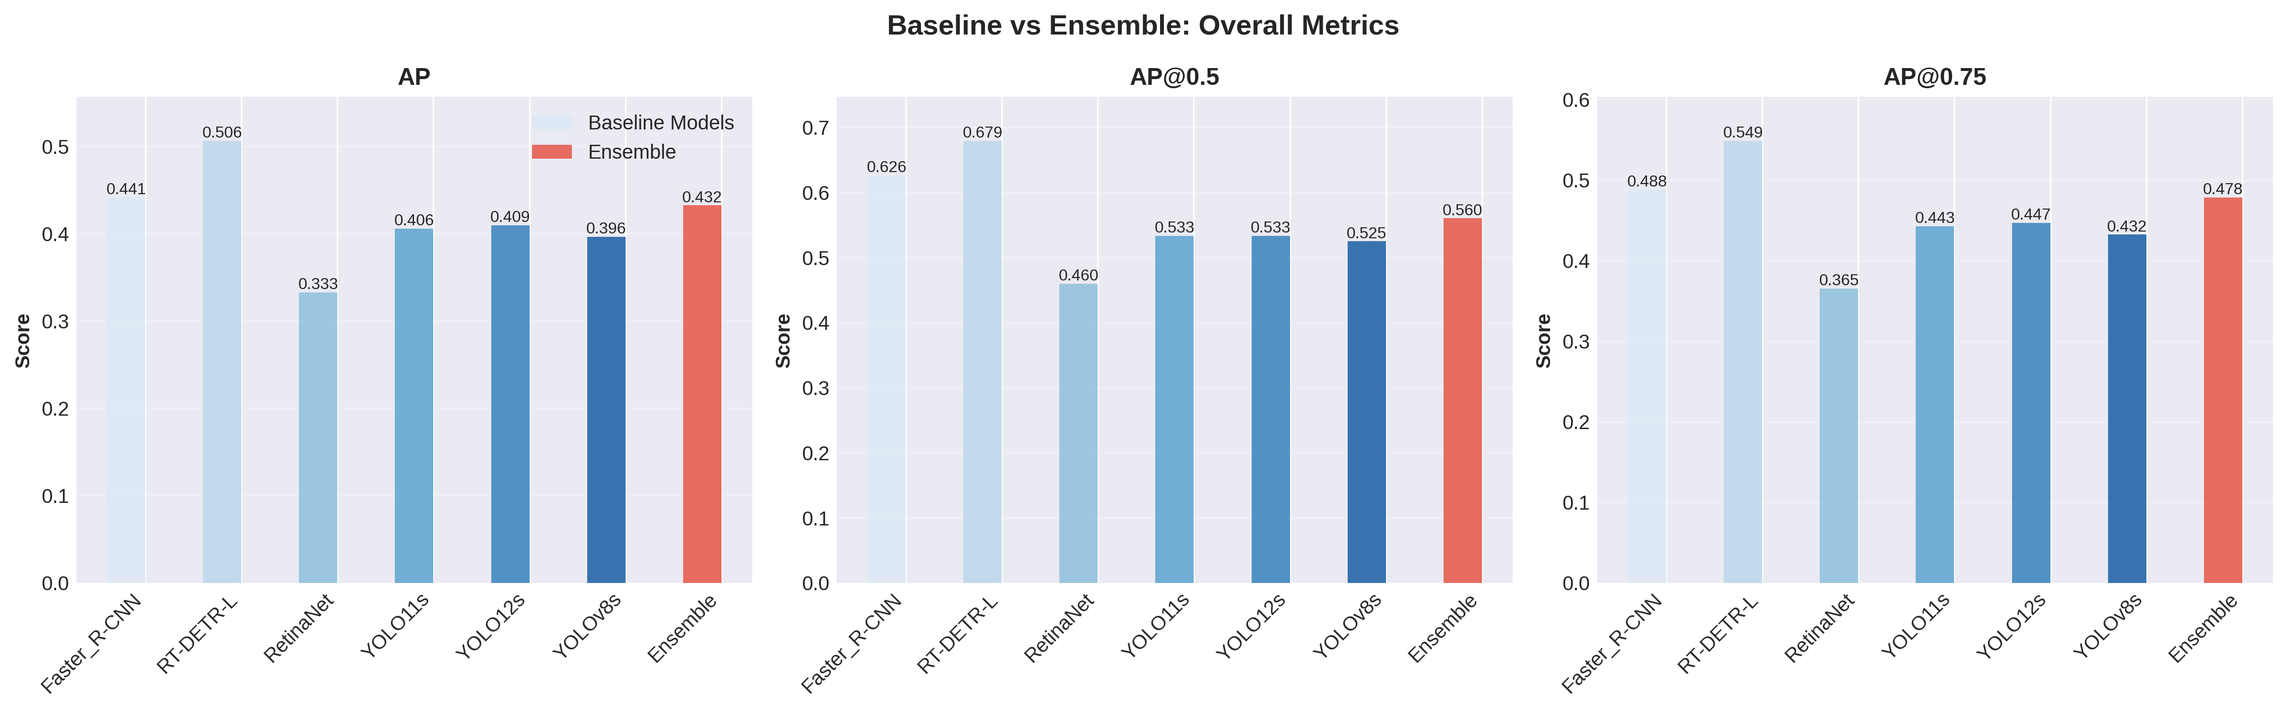
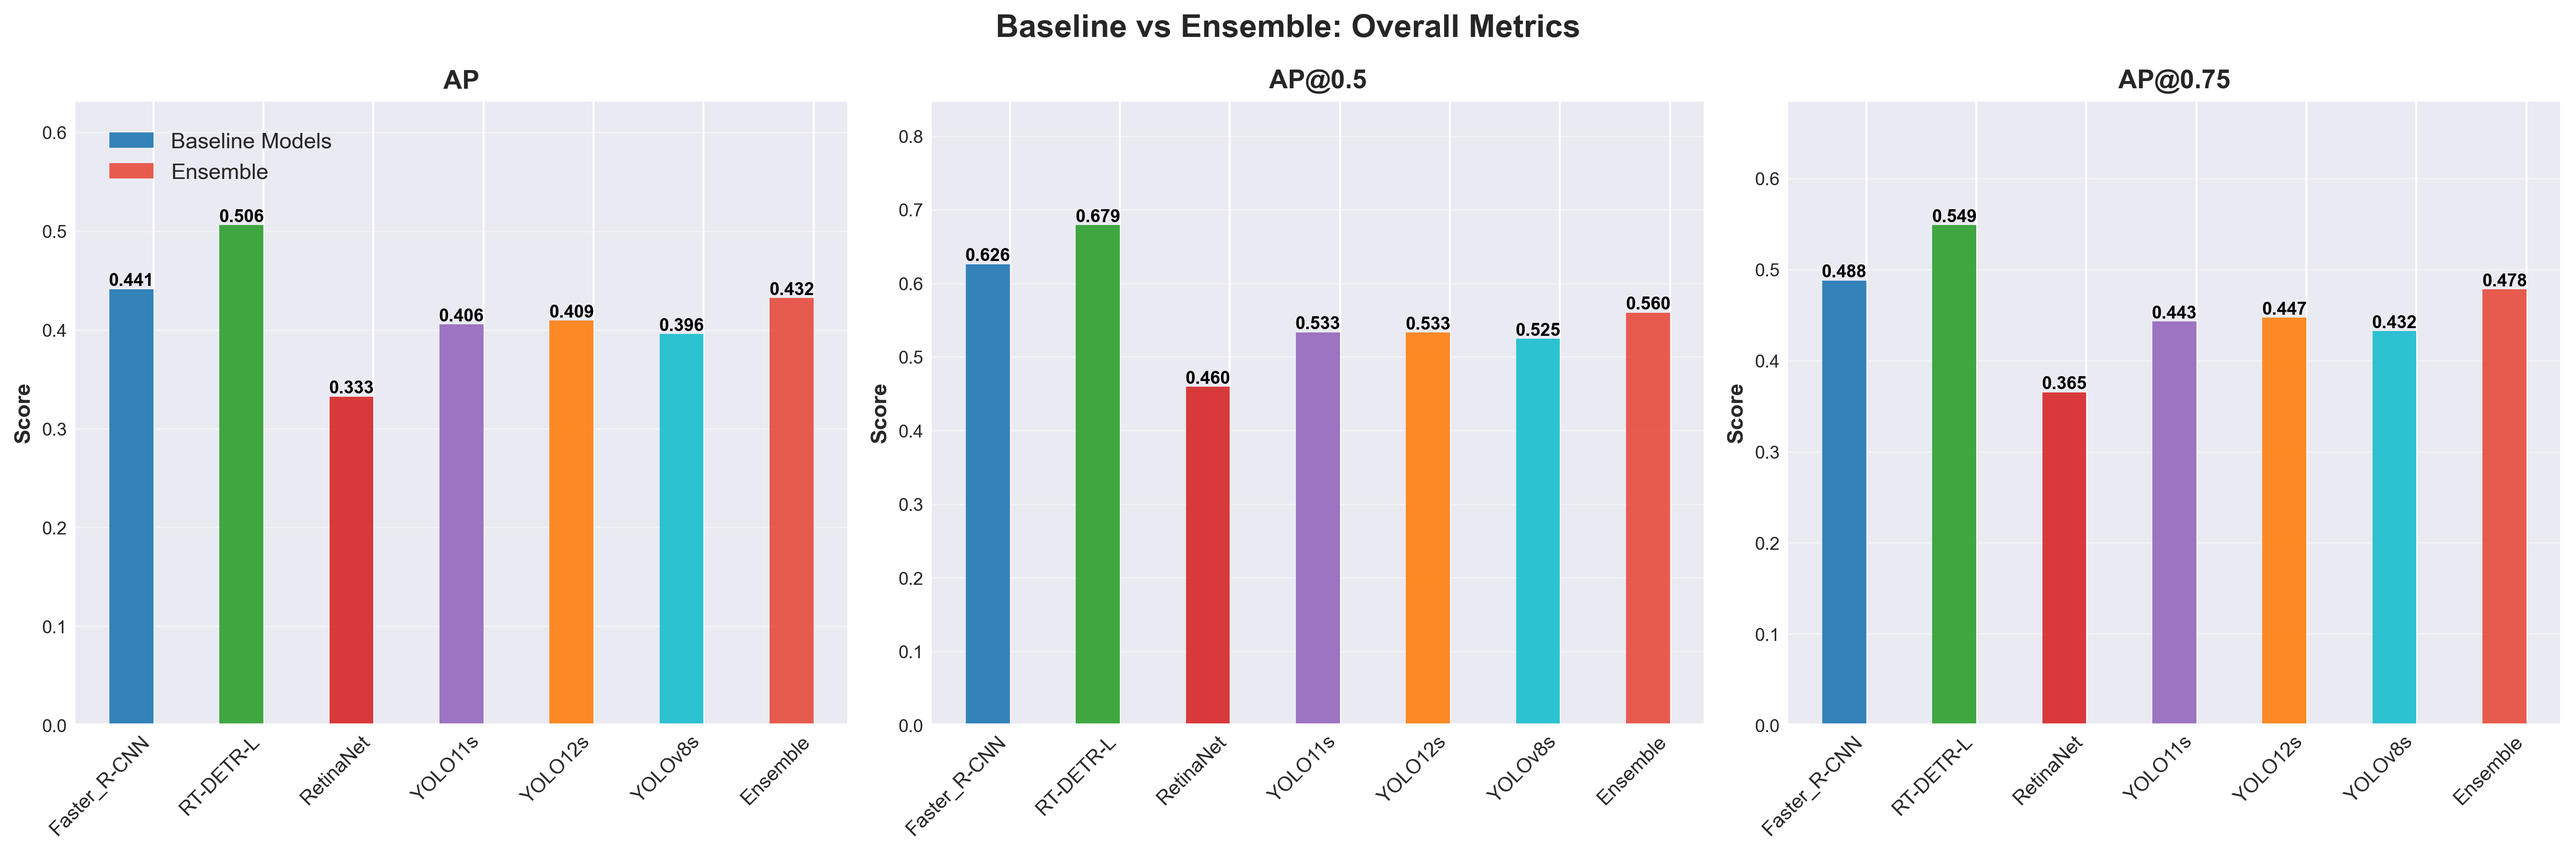
Improve ensemble plotting code

diff --git a/ensemble/comparisons/metrics_comparison.html b/ensemble/comparisons/metrics_comparison.html
@@ -19,7 +19,7 @@
 </head>
 <body>
   <h1>Baseline vs Ensemble Comparison Report</h1>
-  <p style='text-align: center; color: #666;'>Generated: 2025-10-28 20:50:35</p>
+  <p style='text-align: center; color: #666;'>Generated: 2025-10-28 22:30:44</p>
   <div class='metric-section'>
     <h2>Overall Metrics (mAP)</h2>
     <table>
@@ -162,7 +162,7 @@
     </table>
   </div>
   <div class='timestamp'>
-    Report generated on 2025-10-28 20:50:35
+    Report generated on 2025-10-28 22:30:44
   </div>
 </body>
 </html>

diff --git a/ensemble/compare_baseline_ensemble.py b/ensemble/compare_baseline_ensemble.py
@@ -32,6 +32,18 @@ import seaborn as sns
 plt.style.use('seaborn-v0_8-darkgrid')
 sns.set_palette("husl")
 
+# Enhanced figure quality and font sizes
+plt.rcParams['figure.facecolor'] = 'white'
+plt.rcParams['font.size'] = 10
+plt.rcParams['axes.labelsize'] = 11
+plt.rcParams['axes.titlesize'] = 12
+plt.rcParams['xtick.labelsize'] = 9
+plt.rcParams['ytick.labelsize'] = 9
+plt.rcParams['legend.fontsize'] = 10
+plt.rcParams['lines.linewidth'] = 2
+plt.rcParams['axes.linewidth'] = 1.5
+plt.rcParams['grid.linewidth'] = 1
+
 
 def load_baseline_metrics(filepath):
     """Load baseline metrics summary."""
@@ -80,11 +92,12 @@ def load_ensemble_metrics(filepath):
 
 def create_overall_comparison(baseline, ensemble, output_dir):
     """Create overall metrics comparison chart."""
-    fig, axes = plt.subplots(1, 3, figsize=(16, 5))
-    fig.suptitle('Baseline vs Ensemble: Overall Metrics', fontsize=14, fontweight='bold')
+    fig, axes = plt.subplots(1, 3, figsize=(18, 6))
+    fig.suptitle('Baseline vs Ensemble: Overall Metrics', fontsize=16, fontweight='bold')
     
     metrics = ['AP', 'AP@0.5', 'AP@0.75']
-    colors_baseline = sns.color_palette("Blues", n_colors=len(baseline))
+    # Use darker, more saturated colors
+    colors_baseline = ['#1f77b4', '#2ca02c', '#d62728', '#9467bd', '#ff7f0e', '#17becf'][:len(baseline)]
     color_ensemble = '#E74C3C'  # Red for ensemble
     
     for idx, metric in enumerate(metrics):
@@ -95,45 +108,48 @@ def create_overall_comparison(baseline, ensemble, output_dir):
         baseline_names = sorted(baseline.keys())
         x_pos = np.arange(len(baseline_names))
         
-        bars1 = ax.bar(x_pos - 0.2, baseline_values, 0.4, label='Baseline Models', color=colors_baseline, alpha=0.8)
+        bars1 = ax.bar(x_pos - 0.2, baseline_values, 0.4, label='Baseline Models', color=colors_baseline, alpha=0.9)
         
         # Ensemble
         ensemble_value = ensemble['Ensemble'][metric]
-        bars2 = ax.bar(len(baseline_names) - 0.2, ensemble_value, 0.4, label='Ensemble', color=color_ensemble, alpha=0.8)
+        bars2 = ax.bar(len(baseline_names) - 0.2, ensemble_value, 0.4, label='Ensemble', color=color_ensemble, alpha=0.9)
         
-        ax.set_ylabel('Score', fontweight='bold')
-        ax.set_title(metric, fontsize=12, fontweight='bold')
+        ax.set_ylabel('Score', fontweight='bold', fontsize=11)
+        ax.set_title(metric, fontsize=13, fontweight='bold')
         ax.set_xticks(list(x_pos) + [len(baseline_names)])
-        ax.set_xticklabels(baseline_names + ['Ensemble'], rotation=45, ha='right')
-        ax.set_ylim(0, max(baseline_values + [ensemble_value]) * 1.1)
-        ax.grid(axis='y', alpha=0.3)
+        ax.set_xticklabels(baseline_names + ['Ensemble'], rotation=45, ha='right', fontsize=10)
+        max_val = max(baseline_values + [ensemble_value])
+        ax.set_ylim(0, max_val * 1.25)  # Increased to accommodate text
+        ax.grid(axis='y', alpha=0.4, linewidth=0.8)
+        ax.set_axisbelow(True)
         
-        # Add value labels on bars
+        # Add value labels on bars with dark color
         for bars in [bars1, bars2]:
             for bar in bars:
                 height = bar.get_height()
                 ax.text(bar.get_x() + bar.get_width()/2., height,
                        f'{height:.3f}',
-                       ha='center', va='bottom', fontsize=8)
+                       ha='center', va='bottom', fontsize=9, fontweight='bold', color='black')
         
         if idx == 0:
-            ax.legend()
+            ax.legend(fontsize=11, loc='upper left', framealpha=0.95, bbox_to_anchor=(0.02, 0.98))
     
     plt.tight_layout()
     output_path = Path(output_dir) / "01_overall_metrics_comparison.png"
-    plt.savefig(output_path, dpi=300, bbox_inches='tight')
+    plt.savefig(output_path, dpi=300, bbox_inches='tight', facecolor='white', edgecolor='none')
     print(f"✓ Saved overall metrics comparison to {output_path}")
     plt.close()
 
 
 def create_class_frequency_comparison(baseline, ensemble, output_dir):
     """Create head/medium/tail class comparison."""
-    fig, axes = plt.subplots(1, 3, figsize=(16, 5))
-    fig.suptitle('Class-wise Performance: Head / Medium / Tail', fontsize=14, fontweight='bold')
+    fig, axes = plt.subplots(1, 3, figsize=(18, 6))
+    fig.suptitle('Class-wise Performance: Head / Medium / Tail', fontsize=16, fontweight='bold')
     
     class_types = ['head_AP', 'medium_AP', 'tail_AP']
     class_labels = ['Head Classes', 'Medium Classes', 'Tail Classes']
-    colors_baseline = sns.color_palette("Greens", n_colors=len(baseline))
+    # Use darker, more saturated colors
+    colors_baseline = ['#1f77b4', '#2ca02c', '#d62728', '#9467bd', '#ff7f0e', '#17becf'][:len(baseline)]
     color_ensemble = '#E74C3C'
     
     for idx, (class_type, class_label) in enumerate(zip(class_types, class_labels)):
@@ -143,45 +159,47 @@ def create_class_frequency_comparison(baseline, ensemble, output_dir):
         baseline_names = sorted(baseline.keys())
         x_pos = np.arange(len(baseline_names))
         
-        bars1 = ax.bar(x_pos - 0.2, baseline_values, 0.4, label='Baseline Models', color=colors_baseline, alpha=0.8)
+        bars1 = ax.bar(x_pos - 0.2, baseline_values, 0.4, label='Baseline Models', color=colors_baseline, alpha=0.9)
         ensemble_value = ensemble['Ensemble'][class_type]
-        bars2 = ax.bar(len(baseline_names) - 0.2, ensemble_value, 0.4, label='Ensemble', color=color_ensemble, alpha=0.8)
+        bars2 = ax.bar(len(baseline_names) - 0.2, ensemble_value, 0.4, label='Ensemble', color=color_ensemble, alpha=0.9)
         
-        ax.set_ylabel('AP Score', fontweight='bold')
-        ax.set_title(class_label, fontsize=12, fontweight='bold')
+        ax.set_ylabel('AP Score', fontweight='bold', fontsize=11)
+        ax.set_title(class_label, fontsize=13, fontweight='bold')
         ax.set_xticks(list(x_pos) + [len(baseline_names)])
-        ax.set_xticklabels(baseline_names + ['Ensemble'], rotation=45, ha='right')
-        ax.set_ylim(0, max(baseline_values + [ensemble_value]) * 1.1)
-        ax.grid(axis='y', alpha=0.3)
+        ax.set_xticklabels(baseline_names + ['Ensemble'], rotation=45, ha='right', fontsize=10)
+        max_val = max(baseline_values + [ensemble_value])
+        ax.set_ylim(0, max_val * 1.25)  # Increased to accommodate text
+        ax.grid(axis='y', alpha=0.4, linewidth=0.8)
+        ax.set_axisbelow(True)
         
         for bars in [bars1, bars2]:
             for bar in bars:
                 height = bar.get_height()
                 ax.text(bar.get_x() + bar.get_width()/2., height,
                        f'{height:.3f}',
-                       ha='center', va='bottom', fontsize=8)
+                       ha='center', va='bottom', fontsize=9, fontweight='bold', color='black')
         
         if idx == 0:
-            ax.legend()
+            ax.legend(fontsize=11, loc='upper left', framealpha=0.95, bbox_to_anchor=(0.02, 0.98))
     
     plt.tight_layout()
     output_path = Path(output_dir) / "02_class_frequency_comparison.png"
-    plt.savefig(output_path, dpi=300, bbox_inches='tight')
+    plt.savefig(output_path, dpi=300, bbox_inches='tight', facecolor='white', edgecolor='none')
     print(f"✓ Saved class frequency comparison to {output_path}")
     plt.close()
 
 
 def create_model_rankings(baseline, ensemble, output_dir):
     """Create model rankings for each metric."""
-    fig, axes = plt.subplots(2, 3, figsize=(16, 10))
-    fig.suptitle('Model Rankings by Metric', fontsize=14, fontweight='bold')
+    fig, axes = plt.subplots(2, 3, figsize=(18, 11))
+    fig.suptitle('Model Rankings by Metric', fontsize=16, fontweight='bold')
     
     metrics = ['AP', 'AP@0.5', 'AP@0.75', 'head_AP', 'medium_AP', 'tail_AP']
     metric_labels = ['mAP@[0.5:0.95]', 'mAP@0.5', 'mAP@0.75', 'Head AP', 'Medium AP', 'Tail AP']
     
     all_models = {**baseline, **ensemble}
-    colors_baseline = sns.color_palette("Blues", n_colors=len(baseline))
-    color_ensemble = '#E74C3C'
+    # Use darker, more saturated colors
+    color_palette = ['#1f77b4', '#2ca02c', '#d62728', '#9467bd', '#ff7f0e', '#17becf', '#E74C3C']
     
     for idx, (metric, label) in enumerate(zip(metrics, metric_labels)):
         ax = axes[idx // 3, idx % 3]
@@ -190,23 +208,27 @@ def create_model_rankings(baseline, ensemble, output_dir):
         scores.sort(key=lambda x: x[1], reverse=True)
         
         names, values = zip(*scores)
-        colors = [color_ensemble if name == 'Ensemble' else colors_baseline[i % len(colors_baseline)]
-                 for i, name in enumerate(names)]
+        colors = [color_palette[i % len(color_palette)] for i in range(len(names))]
         
-        bars = ax.barh(names, values, color=colors, alpha=0.8)
-        ax.set_xlabel('Score', fontweight='bold')
-        ax.set_title(label, fontsize=11, fontweight='bold')
-        ax.grid(axis='x', alpha=0.3)
+        bars = ax.barh(names, values, color=colors, alpha=0.9)
+        ax.set_xlabel('Score', fontweight='bold', fontsize=11)
+        ax.set_title(label, fontsize=13, fontweight='bold')
+        ax.grid(axis='x', alpha=0.4, linewidth=0.8)
+        ax.set_axisbelow(True)
         
-        # Add value labels
+        # Set xlim to accommodate text labels
+        max_val = max(values)
+        ax.set_xlim(0, max_val * 1.15)
+        
+        # Add value labels with dark color
         for i, (bar, value) in enumerate(zip(bars, values)):
             ax.text(value, bar.get_y() + bar.get_height()/2.,
-                   f' {value:.4f}',
-                   va='center', fontsize=9)
+                   f'  {value:.4f}',
+                   va='center', fontsize=9, fontweight='bold', color='black')
     
     plt.tight_layout()
     output_path = Path(output_dir) / "03_model_rankings.png"
-    plt.savefig(output_path, dpi=300, bbox_inches='tight')
+    plt.savefig(output_path, dpi=300, bbox_inches='tight', facecolor='white', edgecolor='none')
     print(f"✓ Saved model rankings to {output_path}")
     plt.close()
 
